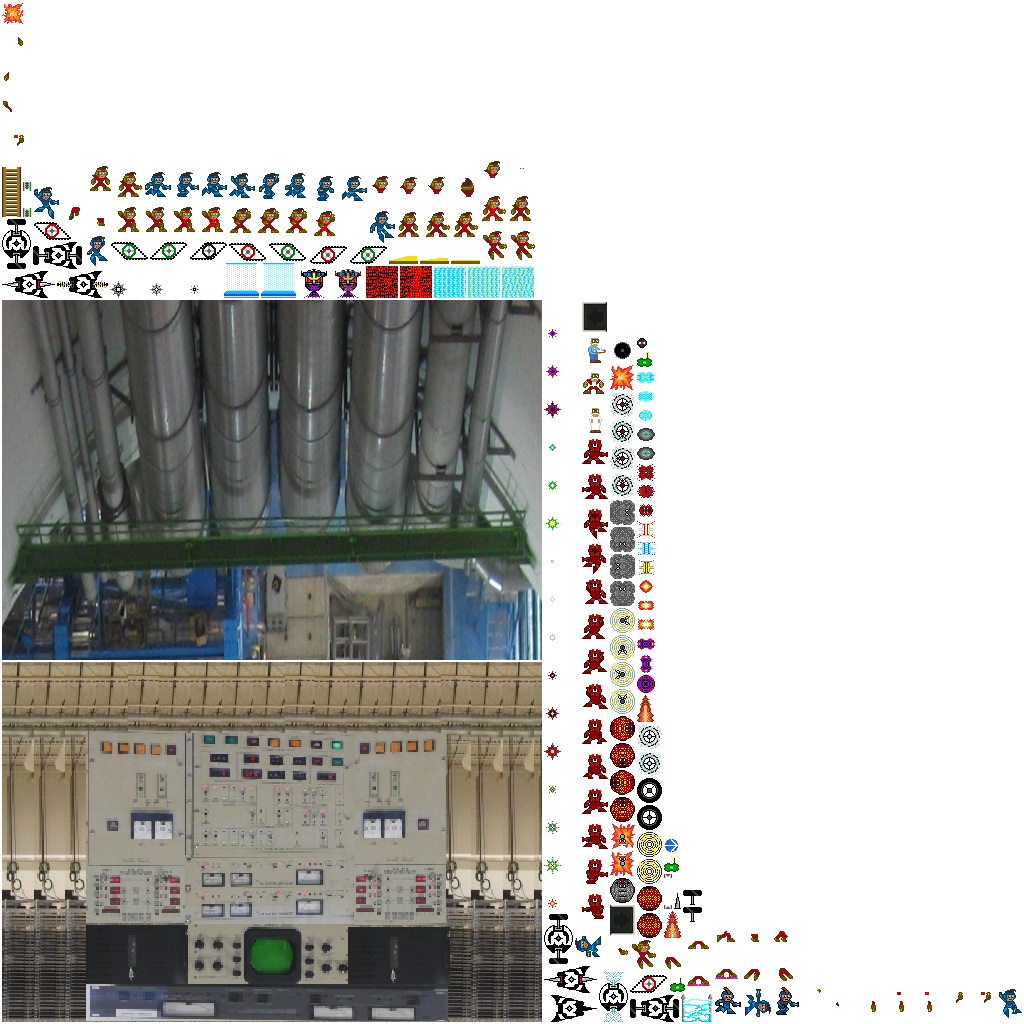
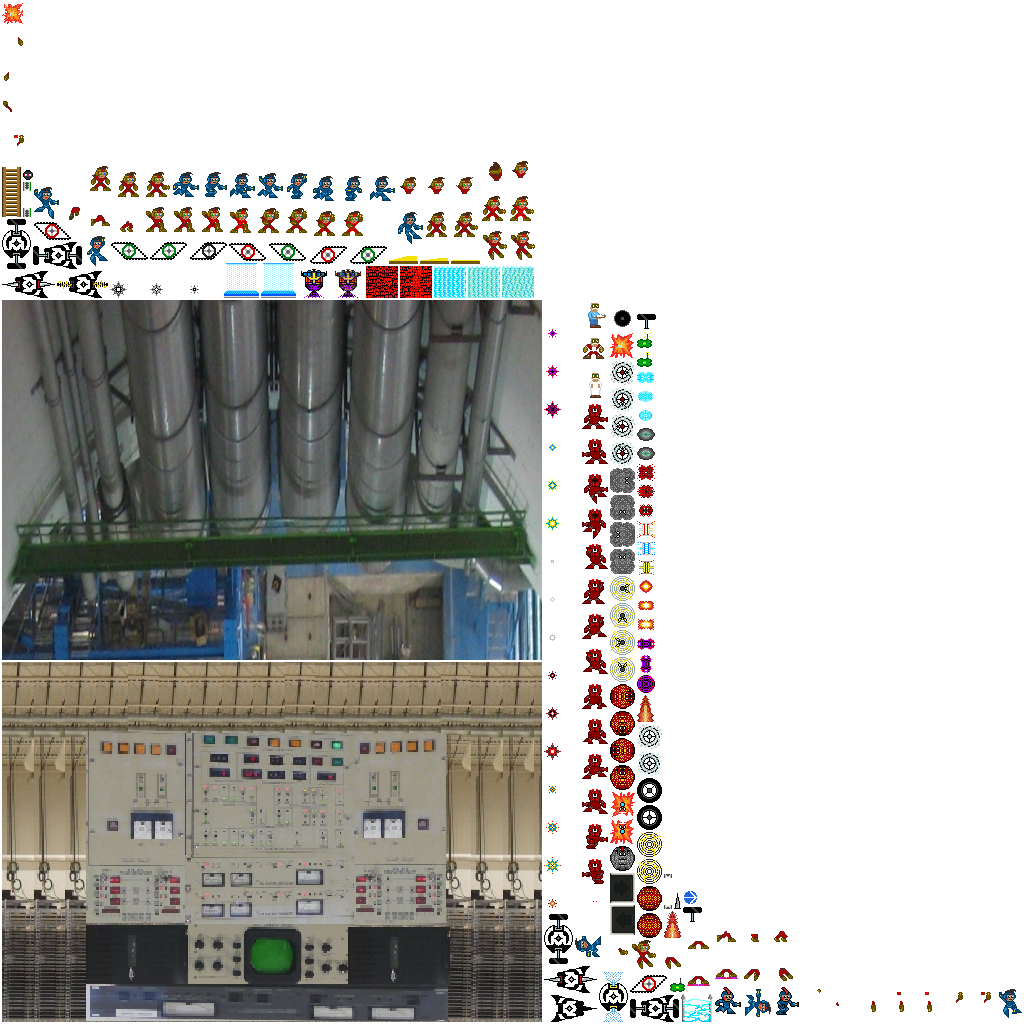
updated stride sprites and animation

diff --git a/core/src/com/udacity/gamedev/gigagal/entity/Avatar.java b/core/src/com/udacity/gamedev/gigagal/entity/Avatar.java
@@ -1509,9 +1509,9 @@ public class Avatar extends Entity implements Impermeable, Humanoid {
                 frontArm = getFrontArm(shoot, AssetManager.getInstance().getAvatarAssets().release);
                 break;
             case STRIDING:
-                float strideFrame = Math.min(strideAcceleration * strideAcceleration, strideAcceleration);
+                float strideFrame = Math.min(strideAcceleration * strideAcceleration, strideAcceleration * 1.25f);
                 torso = AssetManager.getInstance().getAvatarAssets().torso.getKeyFrame(strideTimeSeconds * Math.max(Math.abs(velocity.x / Constants.AVATAR_MAX_SPEED), .33f));
-                legs = AssetManager.getInstance().getAvatarAssets().legsStride.getKeyFrame(strideFrame / 1.25f);
+                legs = AssetManager.getInstance().getAvatarAssets().legsStride.getKeyFrame(strideFrame * 1.25f);
                 shoot = AssetManager.getInstance().getAvatarAssets().pointForward;
                 backArm = getBackArm(AssetManager.getInstance().getAvatarAssets().armSwing.getKeyFrame(strideFrame / 5));
                 frontArm = getFrontArm(shoot, AssetManager.getInstance().getAvatarAssets().armCurl.getKeyFrame(strideFrame / 5));

diff --git a/core/src/com/udacity/gamedev/gigagal/util/AssetManager.java b/core/src/com/udacity/gamedev/gigagal/util/AssetManager.java
@@ -224,8 +224,10 @@ public final class AssetManager implements AssetErrorListener {
             pointDown = new Animation(Constants.SIDESWIPE_FRAME_DURATION, lowerFrames, PlayMode.LOOP);
 
             Array<AtlasRegion> legStrideFrames = new Array<AtlasRegion>();
+            legStrideFrames.add(atlas.findRegion(Constants.LEGS_STRIDE_4));
             legStrideFrames.add(atlas.findRegion(Constants.LEGS_STRIDE_3));
             legStrideFrames.add(atlas.findRegion(Constants.LEGS_STRIDE_2));
+            legStrideFrames.add(atlas.findRegion(Constants.LEGS_STRIDE_5));
             legStrideFrames.add(atlas.findRegion(Constants.LEGS_STRIDE_1));
             legsStride = new Animation(Constants.SIDESWIPE_FRAME_DURATION, legStrideFrames, PlayMode.LOOP_PINGPONG);
 

diff --git a/core/src/com/udacity/gamedev/gigagal/util/Constants.java b/core/src/com/udacity/gamedev/gigagal/util/Constants.java
@@ -126,6 +126,7 @@ public final class Constants {
     public static final String LEGS_STRIDE_2 = "avatar-legs-stride-2";
     public static final String LEGS_STRIDE_3 = "avatar-legs-stride-3";
     public static final String LEGS_STRIDE_4 = "avatar-legs-stride-4";
+    public static final String LEGS_STRIDE_5 = "avatar-legs-stride-5";
     public static final String LEGS_HOVER_1 = "avatar-legs-hover-1";
     public static final String LEGS_HOVER_2 = "avatar-legs-hover-2";
     public static final String OBFUSCATED = "avatar-obfuscated";

diff --git a/core/src/com/udacity/gamedev/gigagal/app/LevelAssets.java b/core/src/com/udacity/gamedev/gigagal/app/LevelAssets.java
@@ -19,7 +19,7 @@ public final class LevelAssets {
     private LevelAssets() {}
 
     // Public getters
-    public  static final Array<Entity> getClonedEntities() {
+    public static final Array<Entity> getClonedEntities() {
         Array<Entity> clonedEntities = new Array<Entity>();
         for (Entity entity : levelUpdater.getEntities()) {
             clonedEntities.add(entity.clone());
